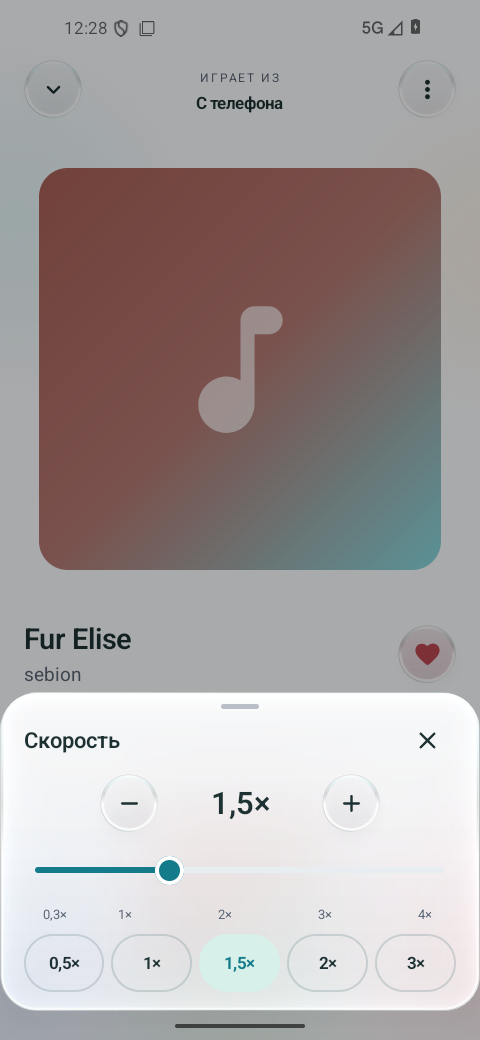
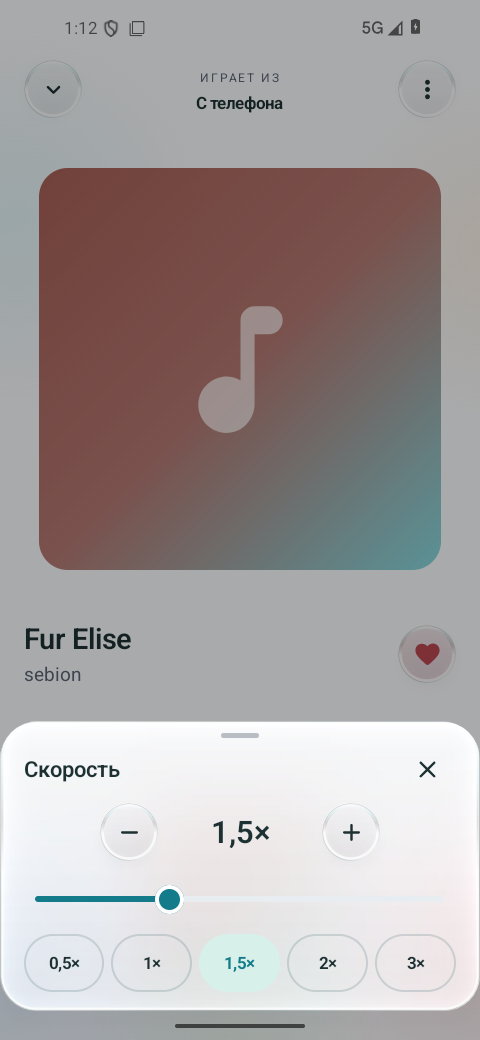
fix: remove speed slider scale labels

diff --git a/app/src/main/java/app/spotygram/PlaybackSpeedSheet.kt b/app/src/main/java/app/spotygram/PlaybackSpeedSheet.kt
@@ -139,23 +139,6 @@ fun PlaybackSpeedSheet(state: Playing, player: Player?, onClose: () -> Unit) {
                 }
             },
         )
-        BoxWithConstraints(Modifier.fillMaxWidth().padding(horizontal = 12.dp).height(24.dp)) {
-            listOf(0.3f, 1f, 2f, 3f, 4f).forEach { tick ->
-                val fraction =
-                    (tick - MIN_PLAYBACK_SPEED) / (MAX_PLAYBACK_SPEED - MIN_PLAYBACK_SPEED)
-                Box(
-                    Modifier.offset(x = (maxWidth - 28.dp) * fraction).width(28.dp),
-                    contentAlignment = Alignment.Center,
-                ) {
-                    Text(
-                        playbackSpeedLabel(tick),
-                        fontSize = 11.sp,
-                        color = MaterialTheme.colorScheme.onSurfaceVariant,
-                        maxLines = 1,
-                    )
-                }
-            }
-        }
         Row(
             Modifier.fillMaxWidth().padding(top = 4.dp),
             horizontalArrangement = Arrangement.spacedBy(6.dp),

diff --git a/docs/verification.md b/docs/verification.md
@@ -1,5 +1,24 @@
 # Verification record
 
+## 0.13.1 — remove speed scale captions
+
+Removed the text scale below the speed slider, including its 24 dp row.
+Signed release assembly and full release Lint passed; both APKs passed signature
+verification with the established certificate and 16 KB ZIP alignment.
+VersionCode 25 / versionName 0.13.1. ARM64 SHA-256:
[2 lines of base64/hex data omitted]
+
+The signed update installed over 0.13.0 without clearing data; its installed
+APK hash matched. Actual Android 16 screens were inspected at 400 dp in both
+themes and at 320 dp with font scale 1.3. The scale captions were absent and
+the compact panel fit; the 1.5× preset applied successfully. Updated EN/RU
+documentation screenshots came from this APK. Inspected app/player error logs
+were empty. The emulator's recurring boot System UI ANR was dismissed before
+checks. Display, font scale and locale were restored, speed returned to 1×,
+and the emulator/Xvfb stopped. No tests or scaffolds were added. Physical-device
+and authenticated Telegram behavior were not retested for this UI deletion.
+
 ## 0.13.0 — playback speed
 
 The round button below Play opens the existing glass sheet with a linear

diff --git a/docs/releases/0.13.1.md b/docs/releases/0.13.1.md
@@ -1,0 +1,3 @@
+# Spotygram 0.13.1
+
+Убраны подписи шкалы под ползунком скорости воспроизведения.
